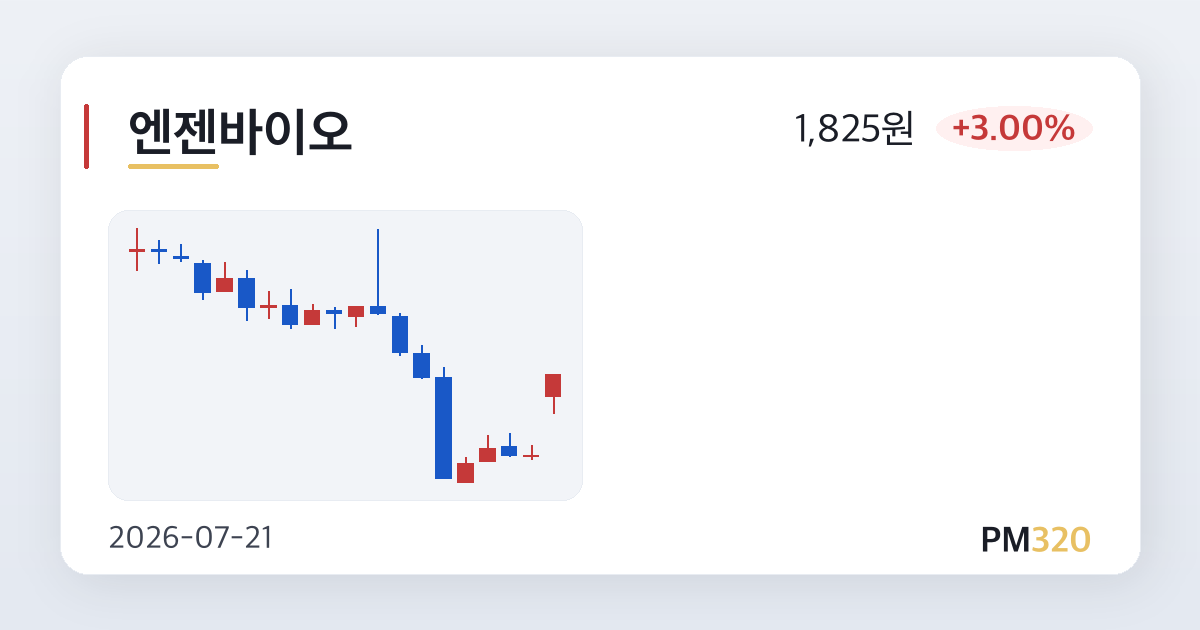
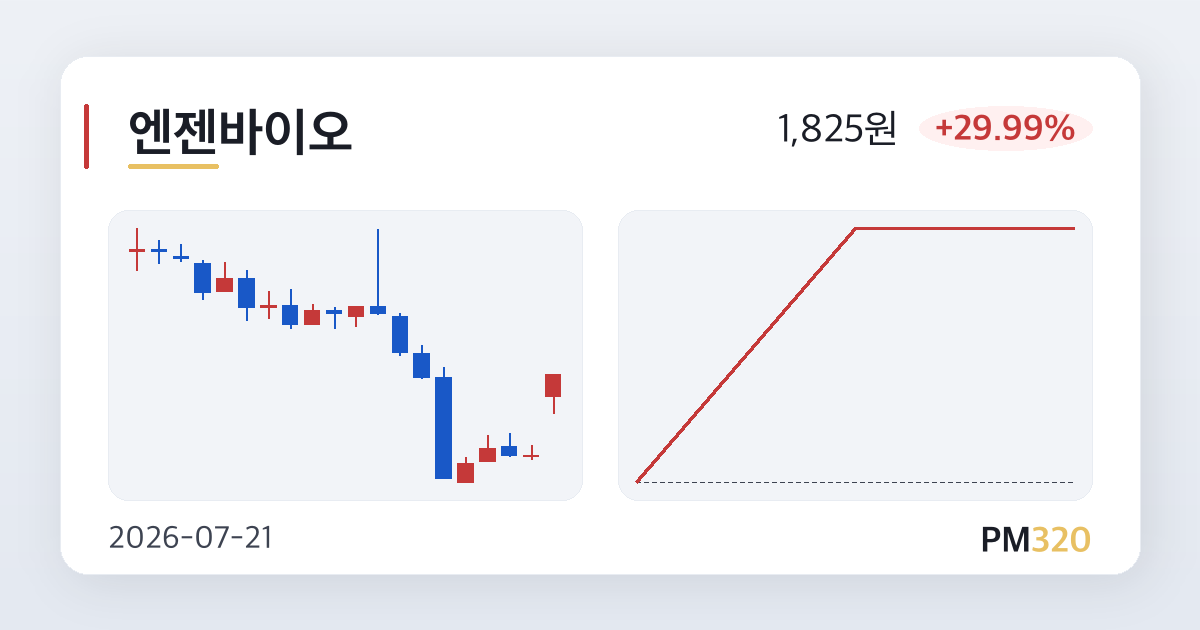
chore(kiwoom): 2026-07-21T09:27 condition search update

diff --git a/pm320/2026-07-21/187790.html b/pm320/2026-07-21/187790.html
@@ -5,13 +5,13 @@
 <title>나노</title>
 <meta property="og:title" content="나노">
 <meta property="og:description" content="[특징주] 나노, 미국 AI 데이터센터 온사이트 발전설비향 SCR 촉매 공급 수주 소식에 상승세">
-<meta property="og:image" content="https://pm320.100m1s.com/og/pm320/2026-07-21/187790.png?v=1784592687">
+<meta property="og:image" content="https://pm320.100m1s.com/og/pm320/2026-07-21/187790.png?v=1784593289">
 <meta property="og:image:width" content="1200">
 <meta property="og:image:height" content="630">
 <meta property="og:url" content="https://pm320.100m1s.com/pm320/2026-07-21/187790.html">
 <meta property="og:type" content="article">
 <meta name="twitter:card" content="summary_large_image">
-<meta name="twitter:image" content="https://pm320.100m1s.com/og/pm320/2026-07-21/187790.png?v=1784592687">
+<meta name="twitter:image" content="https://pm320.100m1s.com/og/pm320/2026-07-21/187790.png?v=1784593289">
 <meta name="robots" content="index, follow">
 <script>
 (function() {